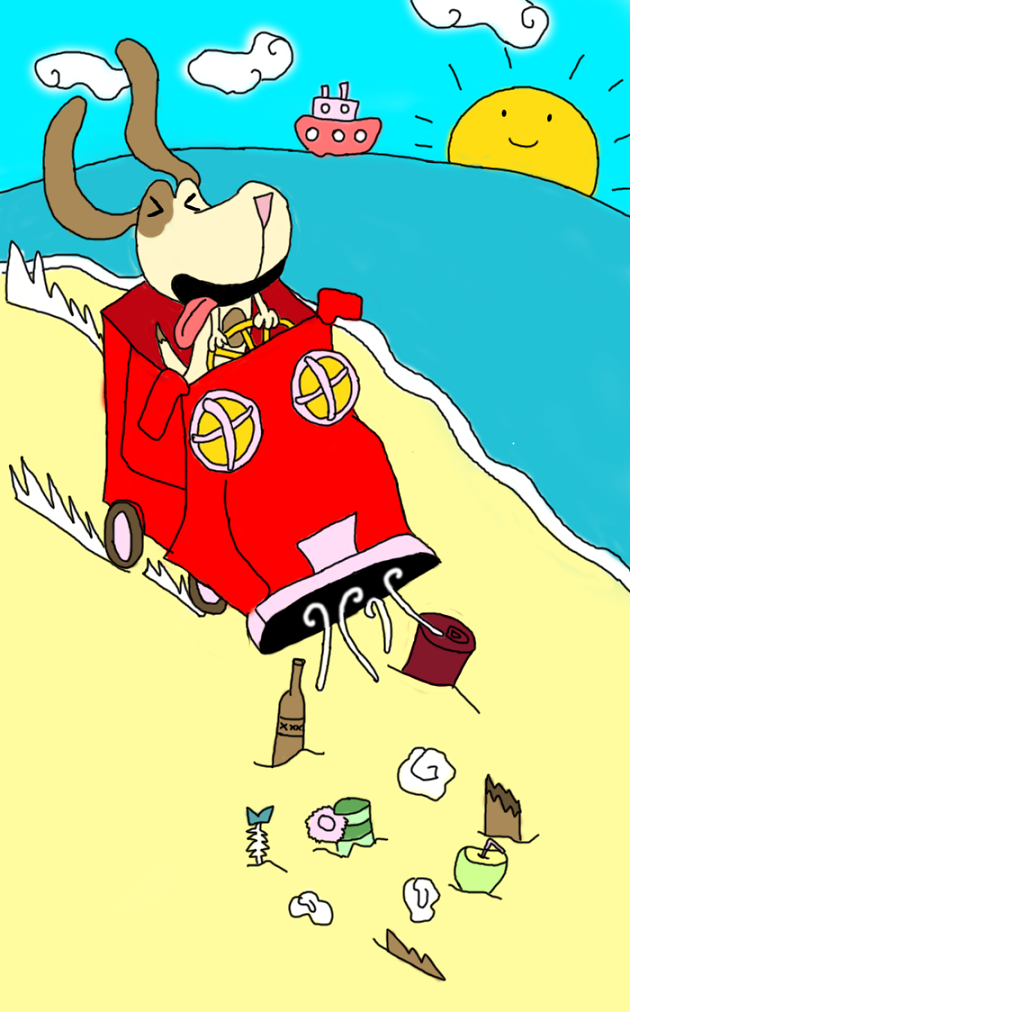
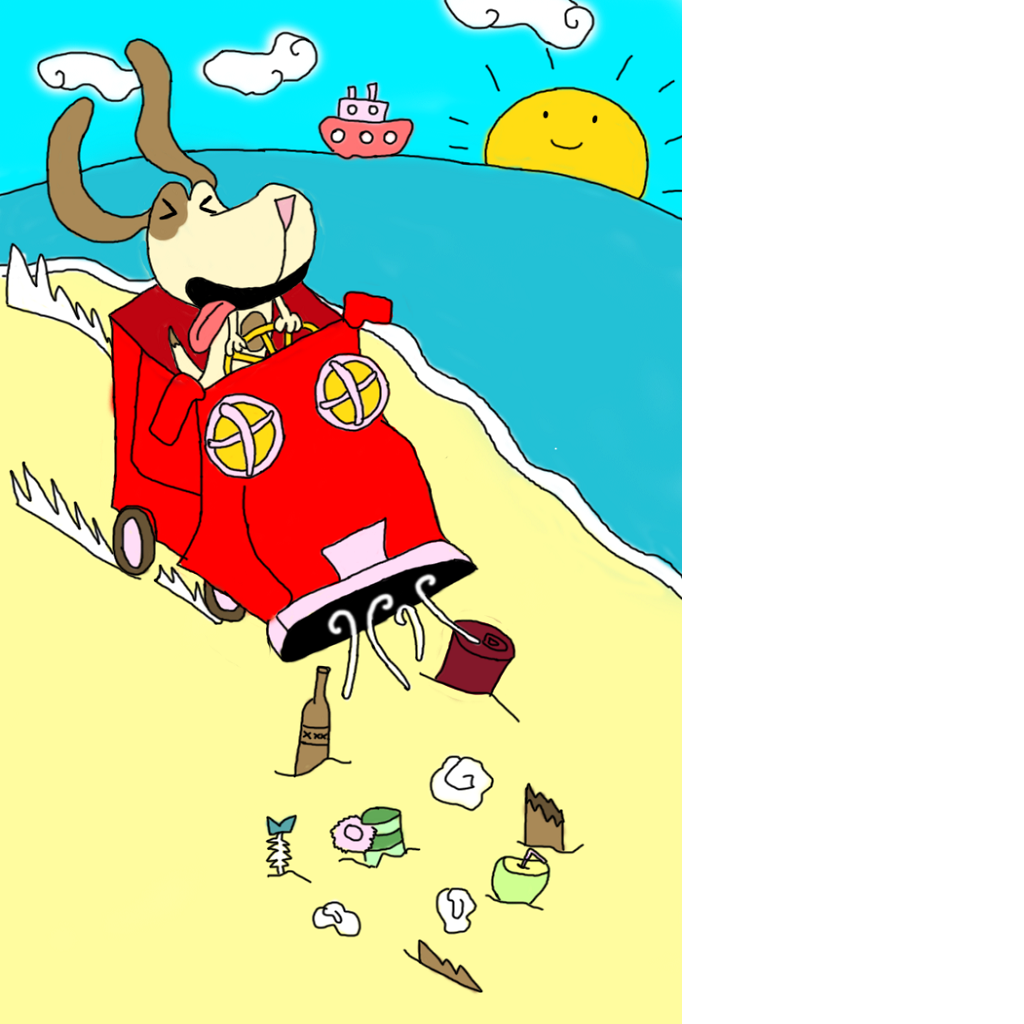
Change main screen background size

Changed region(s): [[0.0, 0.0, 0.6875, 1.0]]

diff --git a/core/src/br/ufpe/cin/dustdog/Assets.java b/core/src/br/ufpe/cin/dustdog/Assets.java
@@ -9,8 +9,8 @@ public class Assets {
 	public static Texture backgroundMainScreen;
 	public static TextureRegion backgroundRegionMainScreen;
 	
-	public final static int BACKGROUND_MAIN_SCREEN_WIDTH = 630;
-	public final static int BACKGROUND_MAIN_SCREEN_HEIGHT = 1012;
+	public final static int BACKGROUND_MAIN_SCREEN_WIDTH = 682;
+	public final static int BACKGROUND_MAIN_SCREEN_HEIGHT = 1024;
 	
 	public static Texture loadTexture(String fileName) {
 		return new Texture(Gdx.files.internal(fileName));
